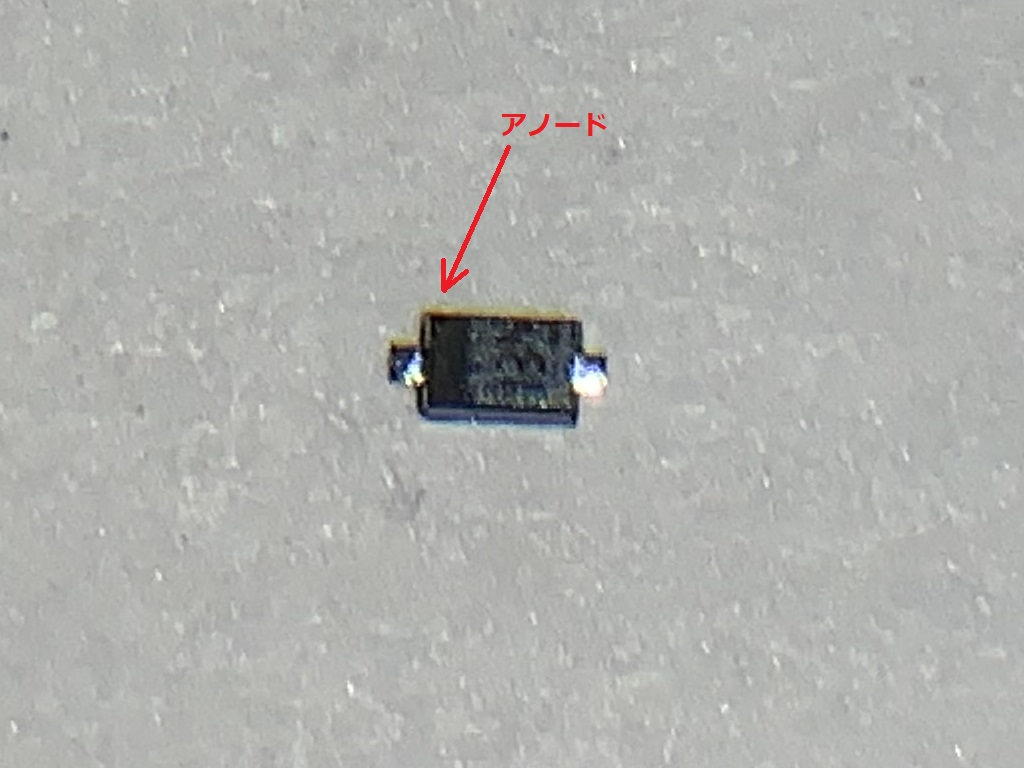
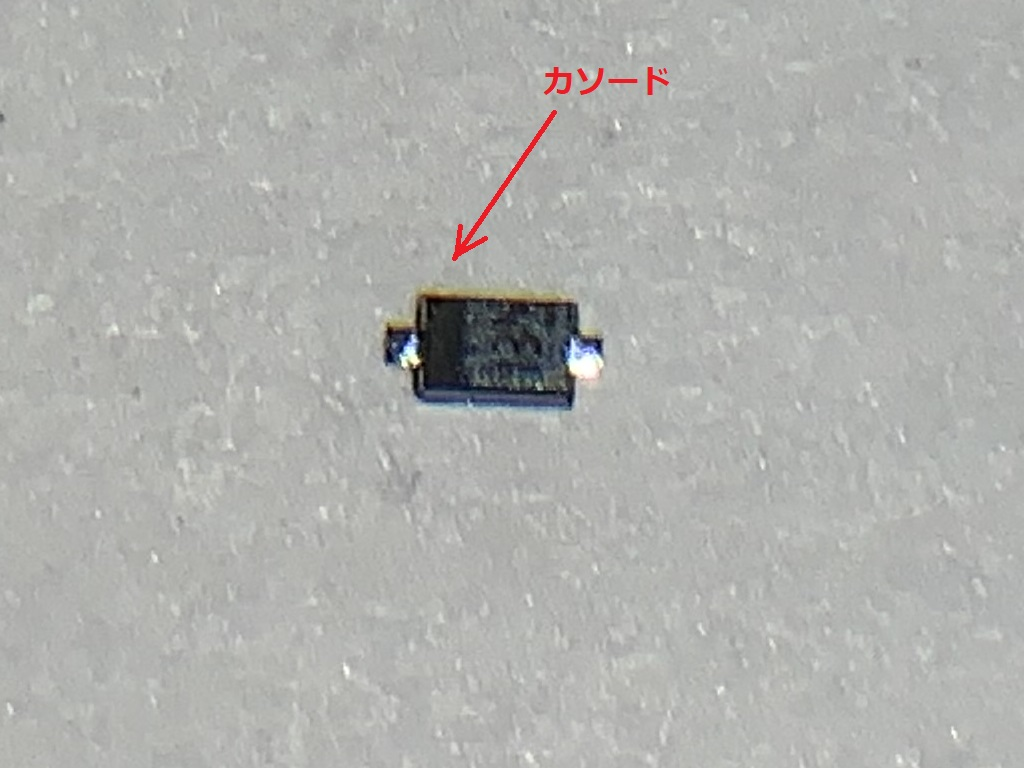
ショットキーバリアダイオードのアノード/カソードの説明誤記訂正

diff --git a/Howto_Soldering/readme.md b/Howto_Soldering/readme.md
@@ -138,9 +138,9 @@ R1、R2、R4とR3は、抵抗値が異なるので、部品を間違えないよ
 ![1-2-1](img/soldering3.JPG)
 
 ショットキーバリアダイオード(D1)には、方向があります。  
-下の写真のようにアノード側にマークがついています。  
+下の写真のようにカソード側にマークがついています。  
 残念ながら5周年基板のD1シルクには、アノード/カソードを示すものがありません。  
-アノードがD1の文字と反対側に来るようにはんだ付けします。
+カソードがD1の文字と反対側に来るようにはんだ付けします。
 
 ![1-2](img/D1.JPG)
 
